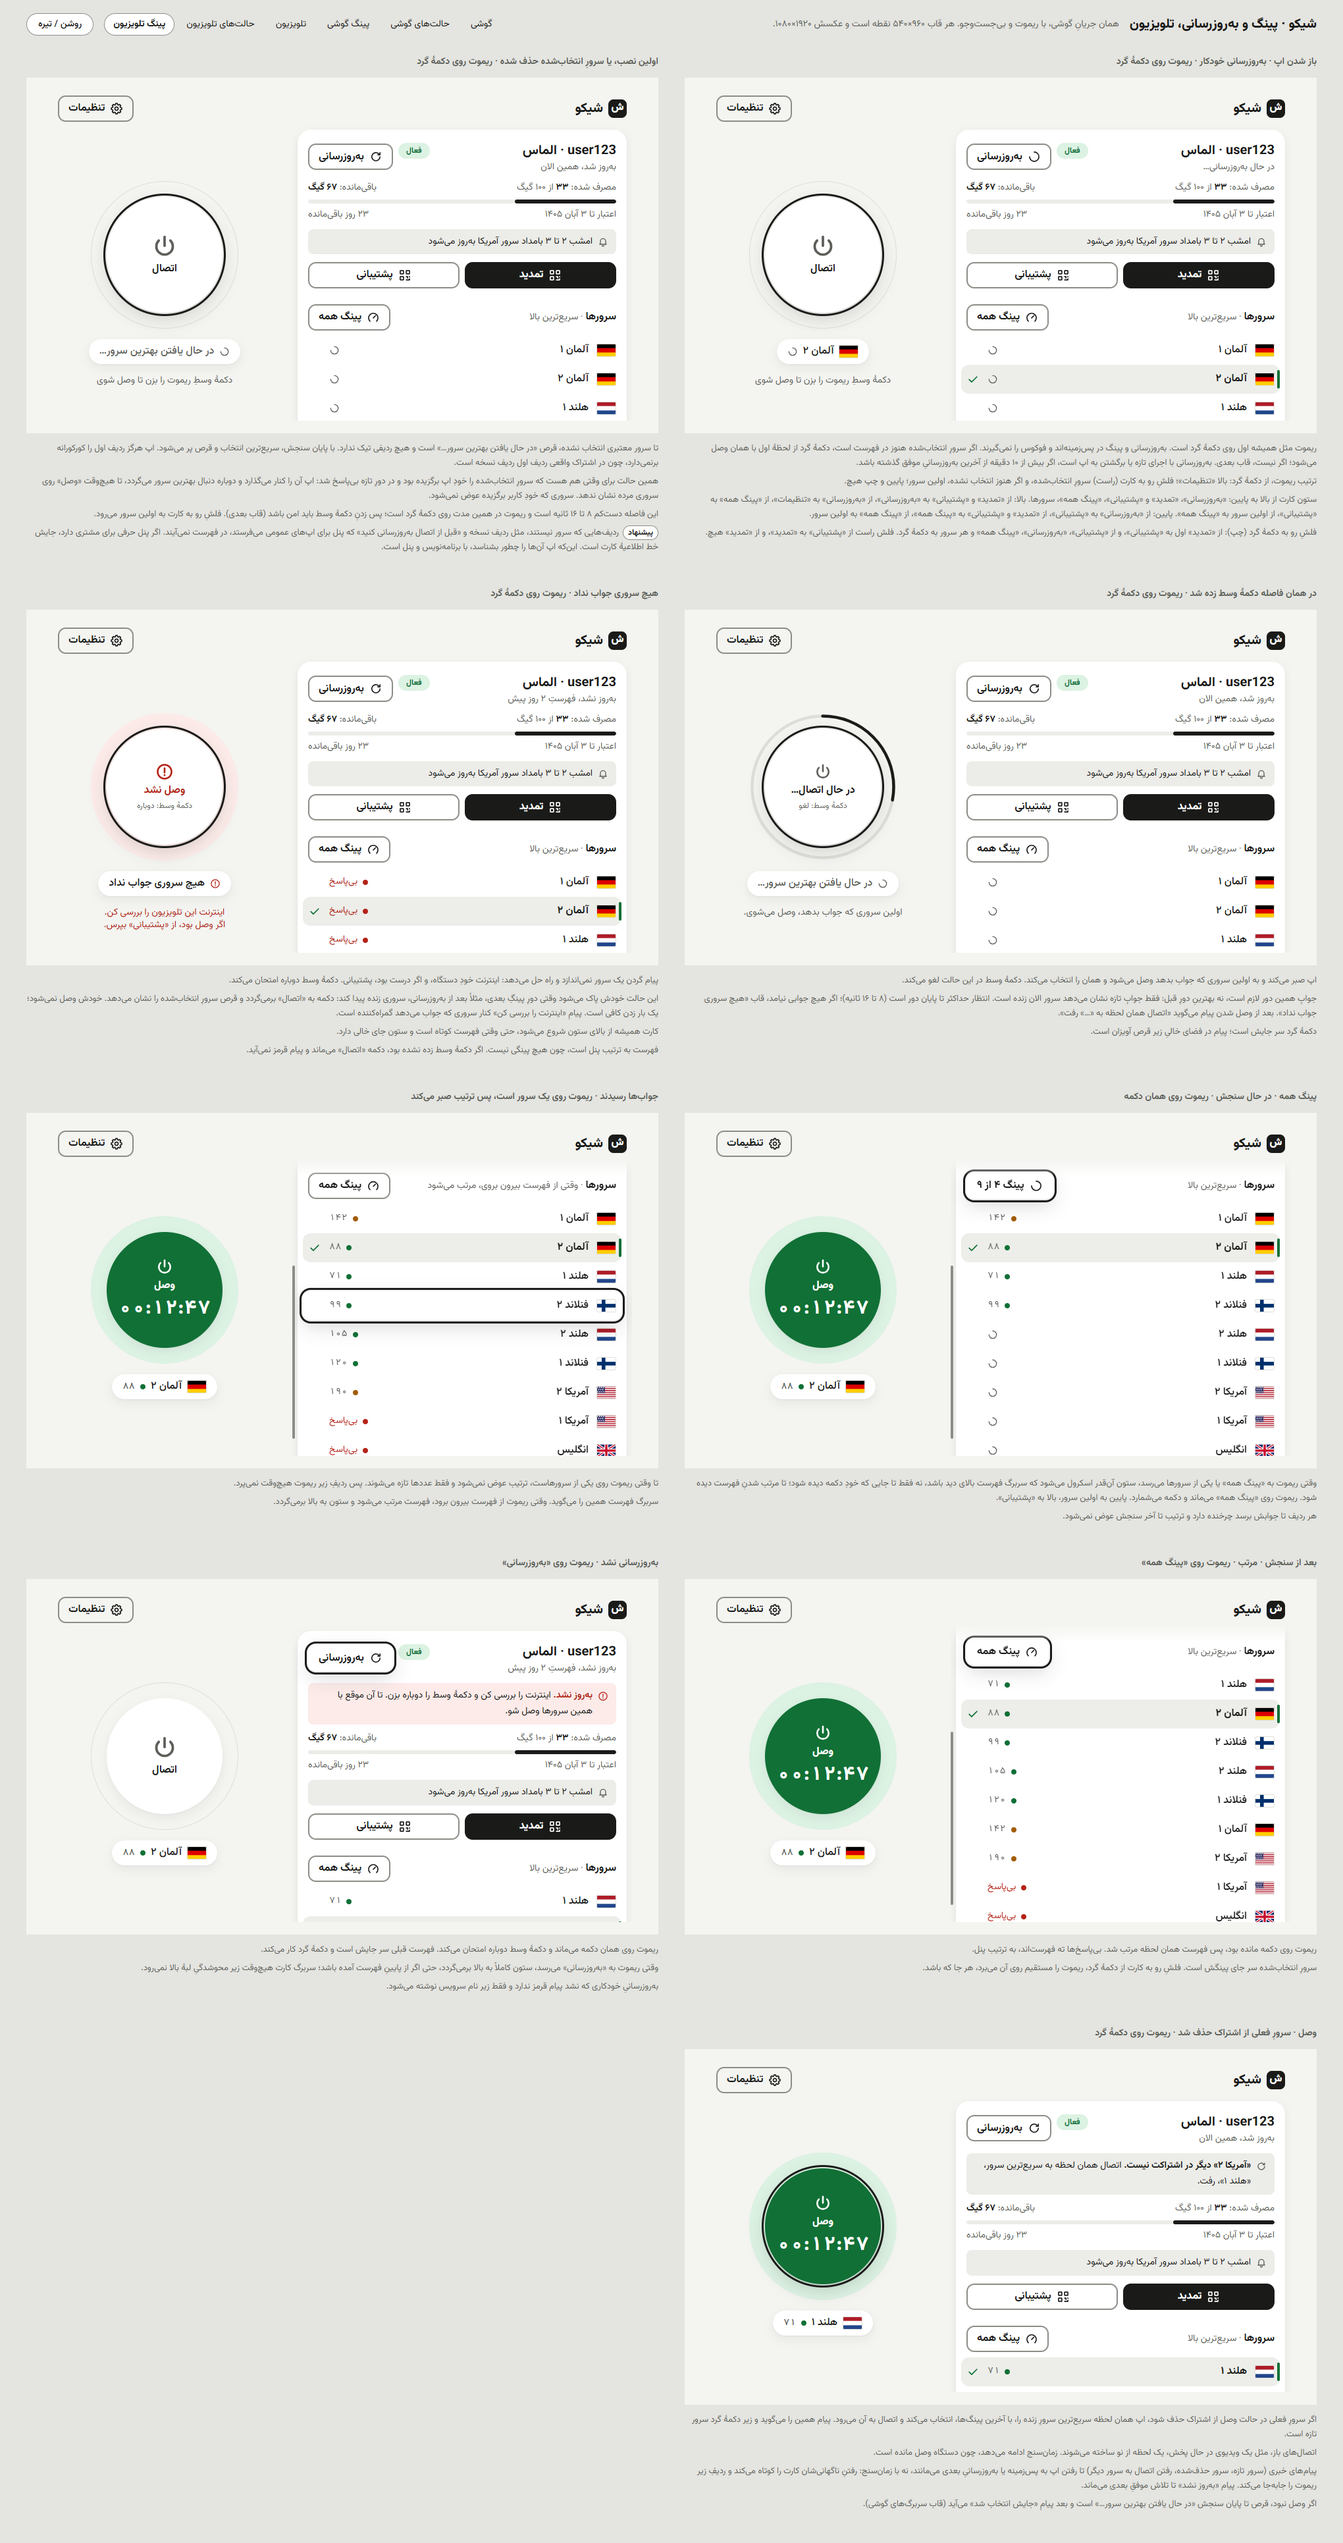
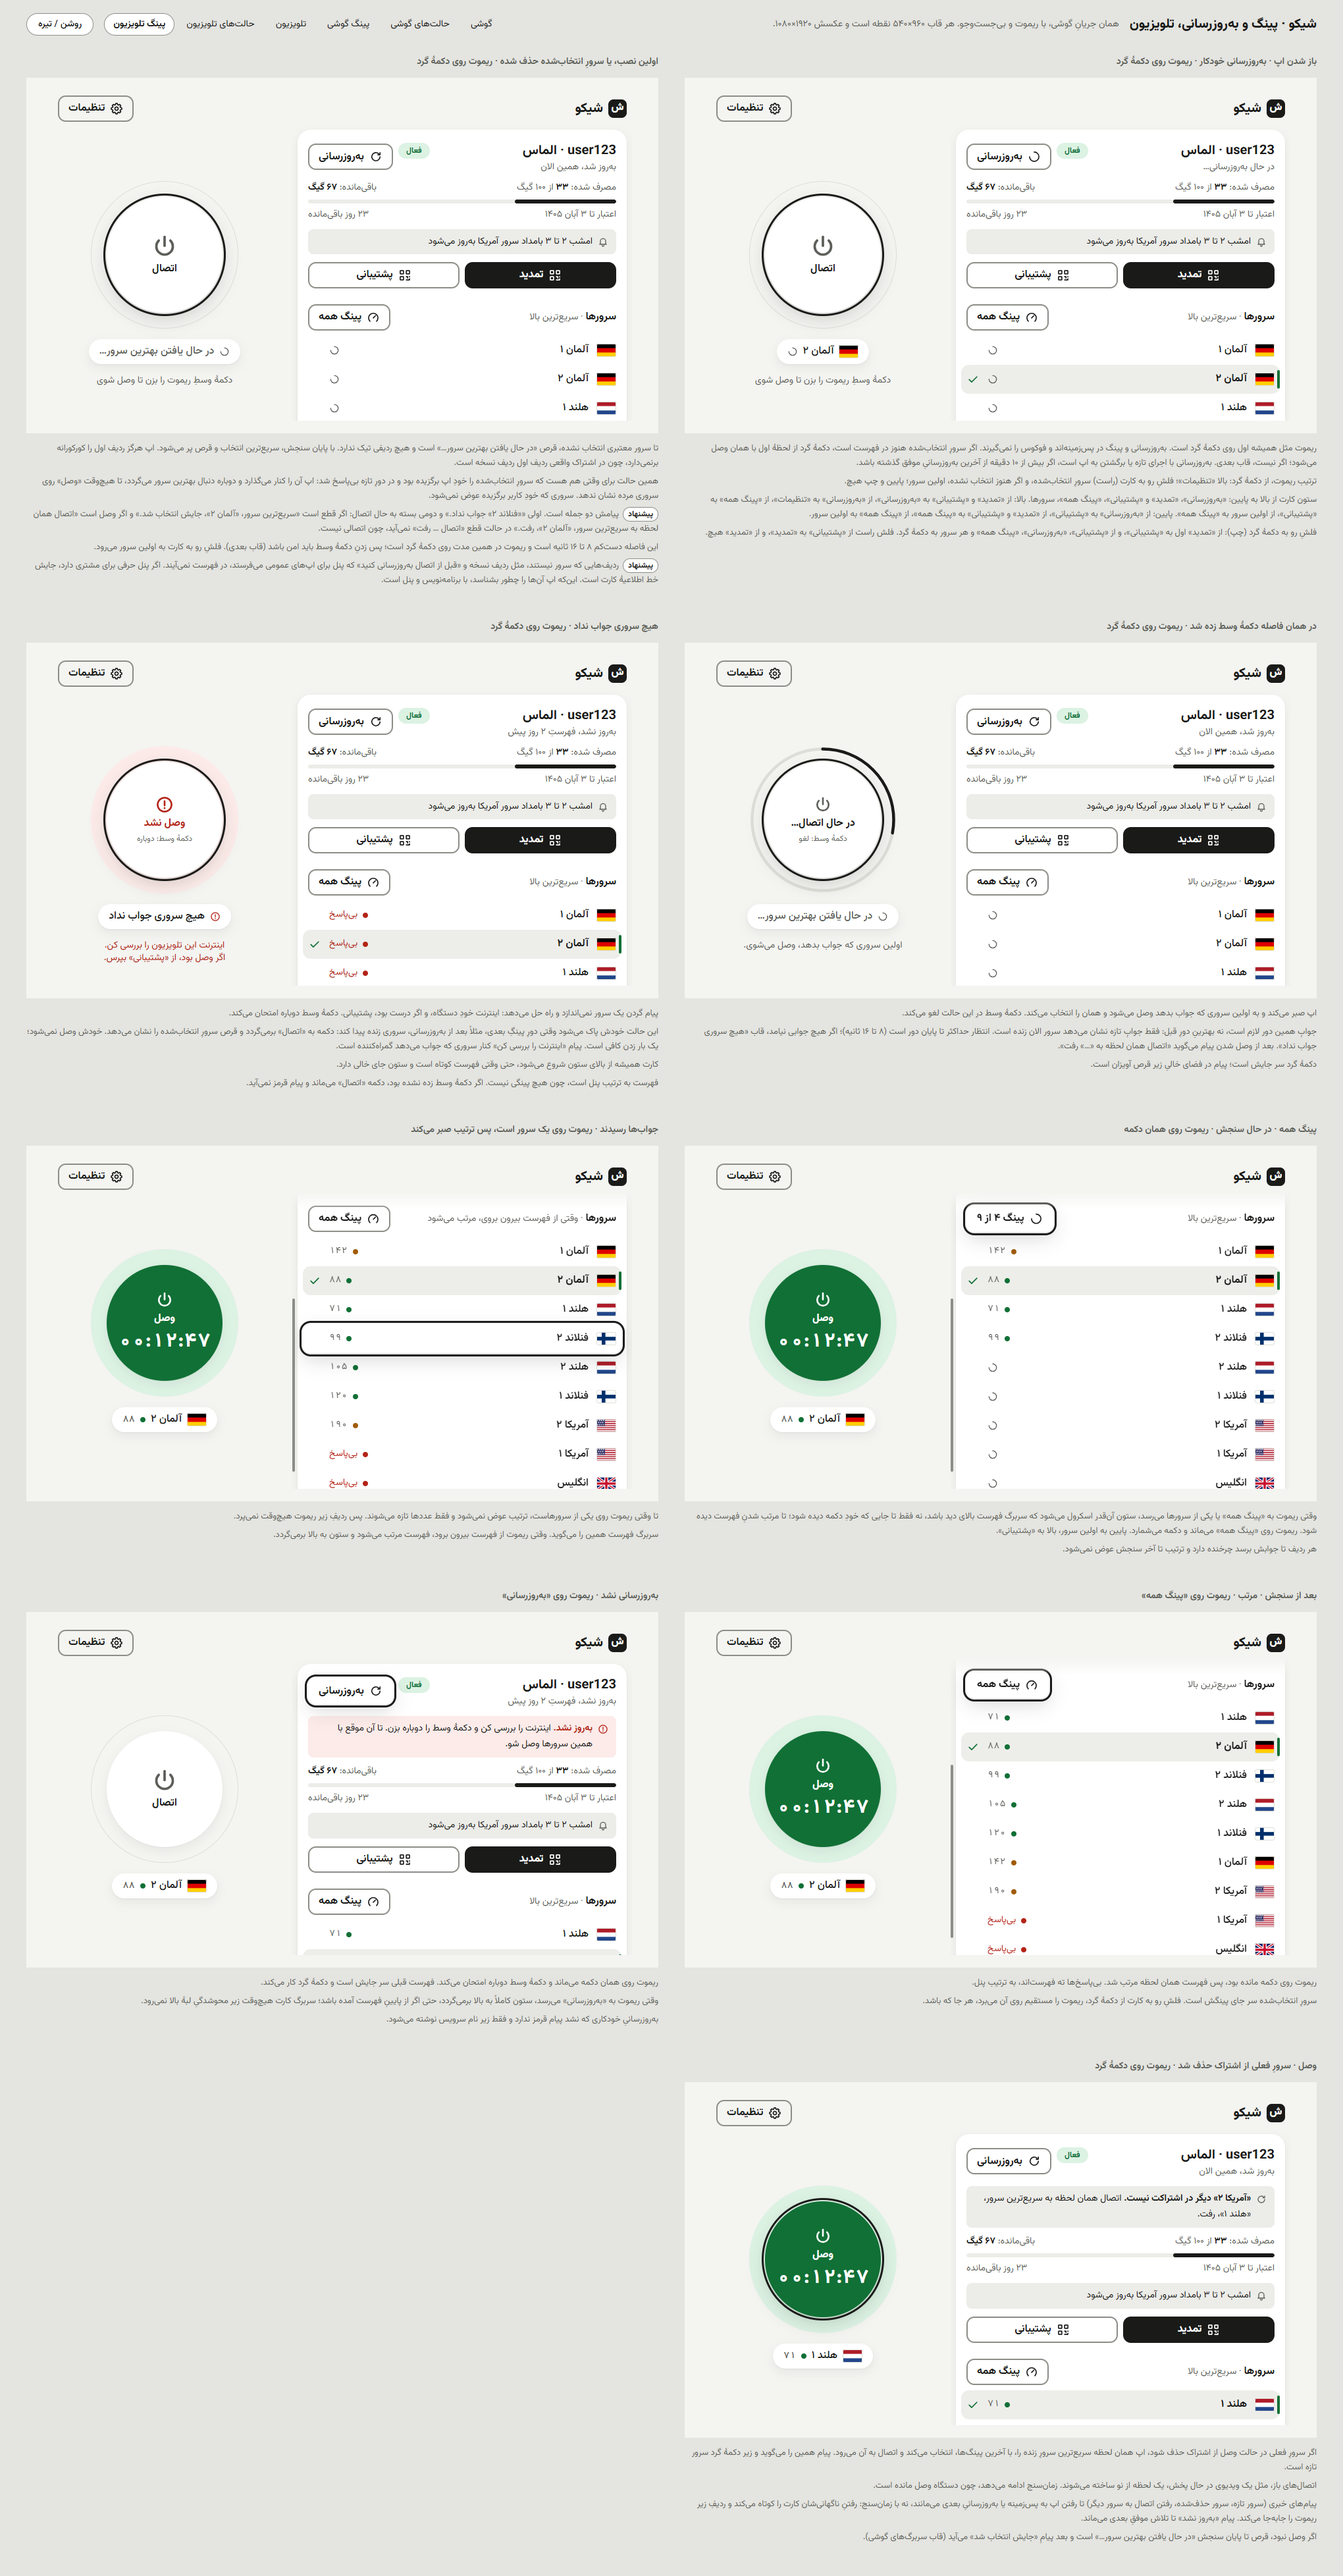
docs(design): word the switch away from a dead server when offline
When a server the app picked stops answering, the built app says the
connection moved to another server even while disconnected. The notes
now propose two sentences: the dead server did not answer, then either
the fastest one was picked in its place (disconnected) or the
connection moved to it (connected). Only the first sentence is new;
the second reuses the strings the app already has.

No frame changes.

diff --git a/design/mockups/phone-ping.html b/design/mockups/phone-ping.html
@@ -210,6 +210,7 @@
     </div>
     <p class="note">تا وقتی سرور معتبری انتخاب نشده، قرص زیر دکمهٔ گرد «در حال یافتن بهترین سرور…» است و هیچ ردیفی تیک ندارد. با پایان سنجش، سریعترین سرور انتخاب میشود و قرص پر میشود.</p>
     <p class="note">همین حالت برای وقتی هم هست که سرورِ انتخابشده را خودِ اپ برگزیده بود و در دورِ تازه بیپاسخ شد: اپ آن را کنار میگذارد و دوباره دنبال بهترین سرور میگردد، تا هیچوقت «وصل» روی سروری مرده نشان ندهد. سروری که خودِ کاربر برگزیده عوض نمیشود.</p>
+    <p class="note"><b>پیشنهاد</b>پیامش دو جمله است. اولی ««فنلاند ۲» جواب نداد.» و دومی بسته به حال اتصال: اگر قطع است «سریعترین سرور، «آلمان ۲»، جایش انتخاب شد.» و اگر وصل است «اتصال همان لحظه به سریعترین سرور، «آلمان ۲»، رفت.» در حالت قطع «اتصال … رفت» نمیآید، چون اتصالی نیست.</p>
     <p class="note">اپ هرگز ردیف اول را کورکورانه برنمیدارد: در اشتراک واقعی ردیف اول ردیف نسخه است، نه سرور. اپ خودش سرور را صریح انتخاب میکند و نمیگذارد موتور حدس بزند.</p>
     <p class="note">این فاصله از رسیدن فهرست تا پایان دورِ اول دستکم ۸ تا ۱۶ ثانیه است.</p>
     <p class="note"><b>پیشنهاد</b>ردیفهایی که سرور نیستند، مثل ردیف نسخه و «قبل از اتصال بهروزرسانی کنید» که پنل برای اپهای عمومی میفرستد، در فهرست نمیآیند. اگر پنل حرفی برای مشتری دارد، جایش خط اطلاعیهٔ کارت است. اینکه اپ آنها را چطور بشناسد، با برنامهنویس و پنل است.</p>

diff --git a/design/mockups/tv-ping.html b/design/mockups/tv-ping.html
@@ -153,6 +153,7 @@
     </div>
     <p class="note">تا سرور معتبری انتخاب نشده، قرص «در حال یافتن بهترین سرور…» است و هیچ ردیفی تیک ندارد. با پایان سنجش، سریعترین انتخاب و قرص پر میشود. اپ هرگز ردیف اول را کورکورانه برنمیدارد، چون در اشتراک واقعی ردیف اول ردیف نسخه است.</p>
     <p class="note">همین حالت برای وقتی هم هست که سرورِ انتخابشده را خودِ اپ برگزیده بود و در دورِ تازه بیپاسخ شد: اپ آن را کنار میگذارد و دوباره دنبال بهترین سرور میگردد، تا هیچوقت «وصل» روی سروری مرده نشان ندهد. سروری که خودِ کاربر برگزیده عوض نمیشود.</p>
+    <p class="note"><b>پیشنهاد</b>پیامش دو جمله است. اولی ««فنلاند ۲» جواب نداد.» و دومی بسته به حال اتصال: اگر قطع است «سریعترین سرور، «آلمان ۲»، جایش انتخاب شد.» و اگر وصل است «اتصال همان لحظه به سریعترین سرور، «آلمان ۲»، رفت.» در حالت قطع «اتصال … رفت» نمیآید، چون اتصالی نیست.</p>
     <p class="note">این فاصله دستکم ۸ تا ۱۶ ثانیه است و ریموت در همین مدت روی دکمهٔ گرد است؛ پس زدنِ دکمهٔ وسط باید امن باشد (قاب بعدی). فلشِ رو به کارت به اولین سرور میرود.</p>
     <p class="note"><b>پیشنهاد</b>ردیفهایی که سرور نیستند، مثل ردیف نسخه و «قبل از اتصال بهروزرسانی کنید» که پنل برای اپهای عمومی میفرستد، در فهرست نمیآیند. اگر پنل حرفی برای مشتری دارد، جایش خط اطلاعیهٔ کارت است. اینکه اپ آنها را چطور بشناسد، با برنامهنویس و پنل است.</p>
   </figure>
